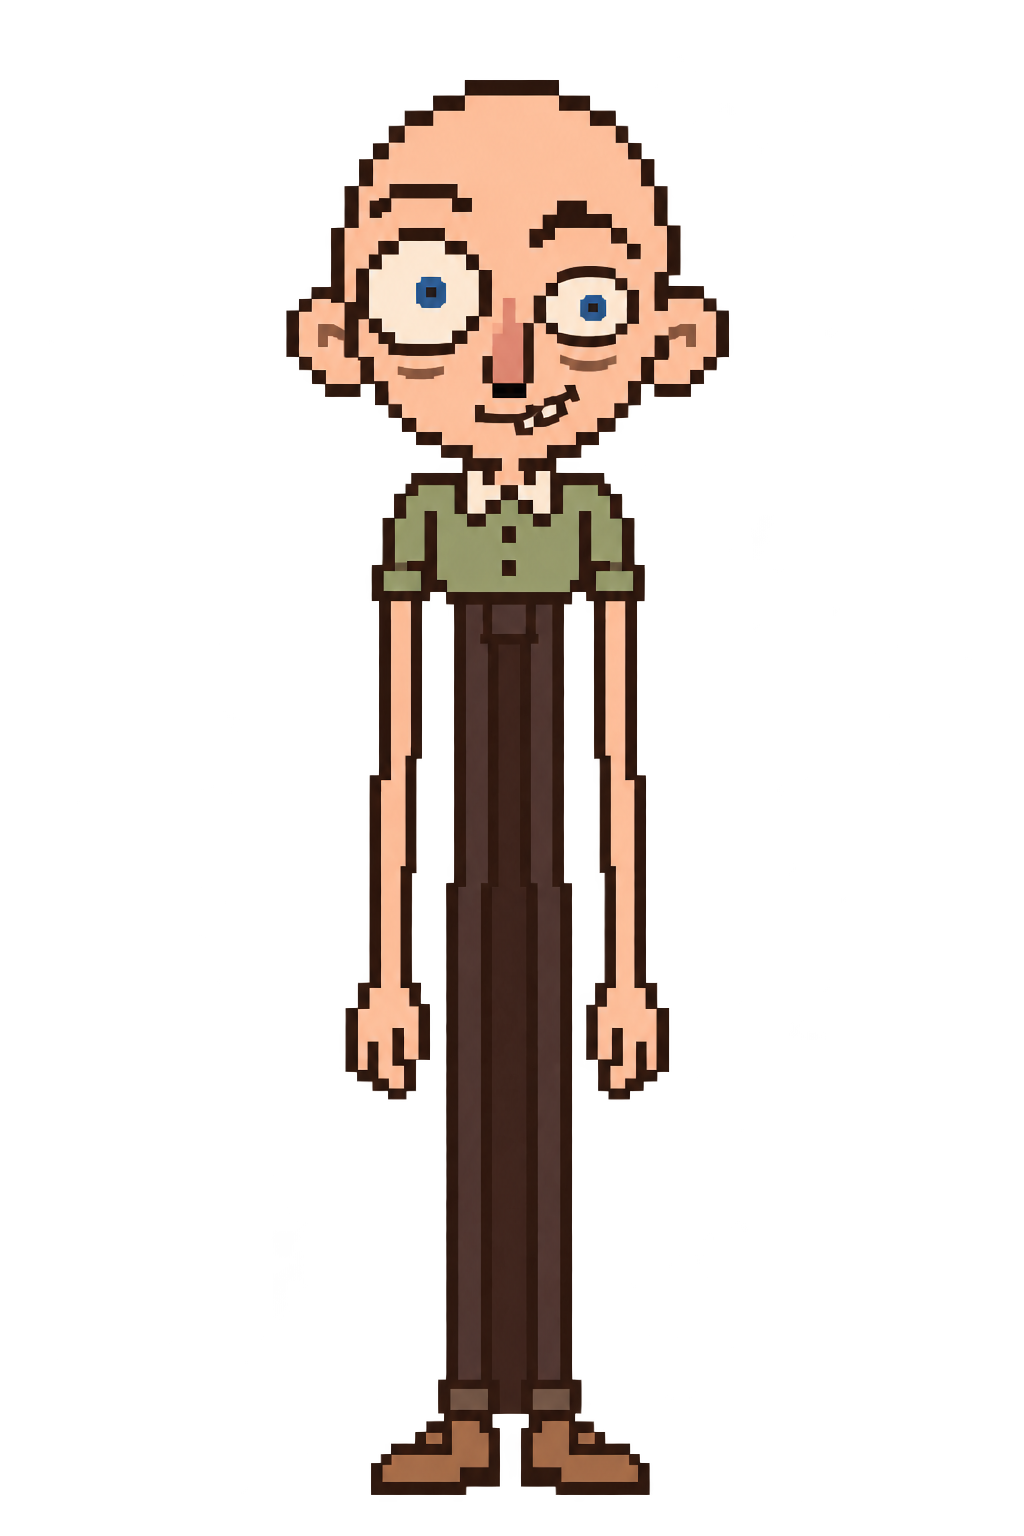
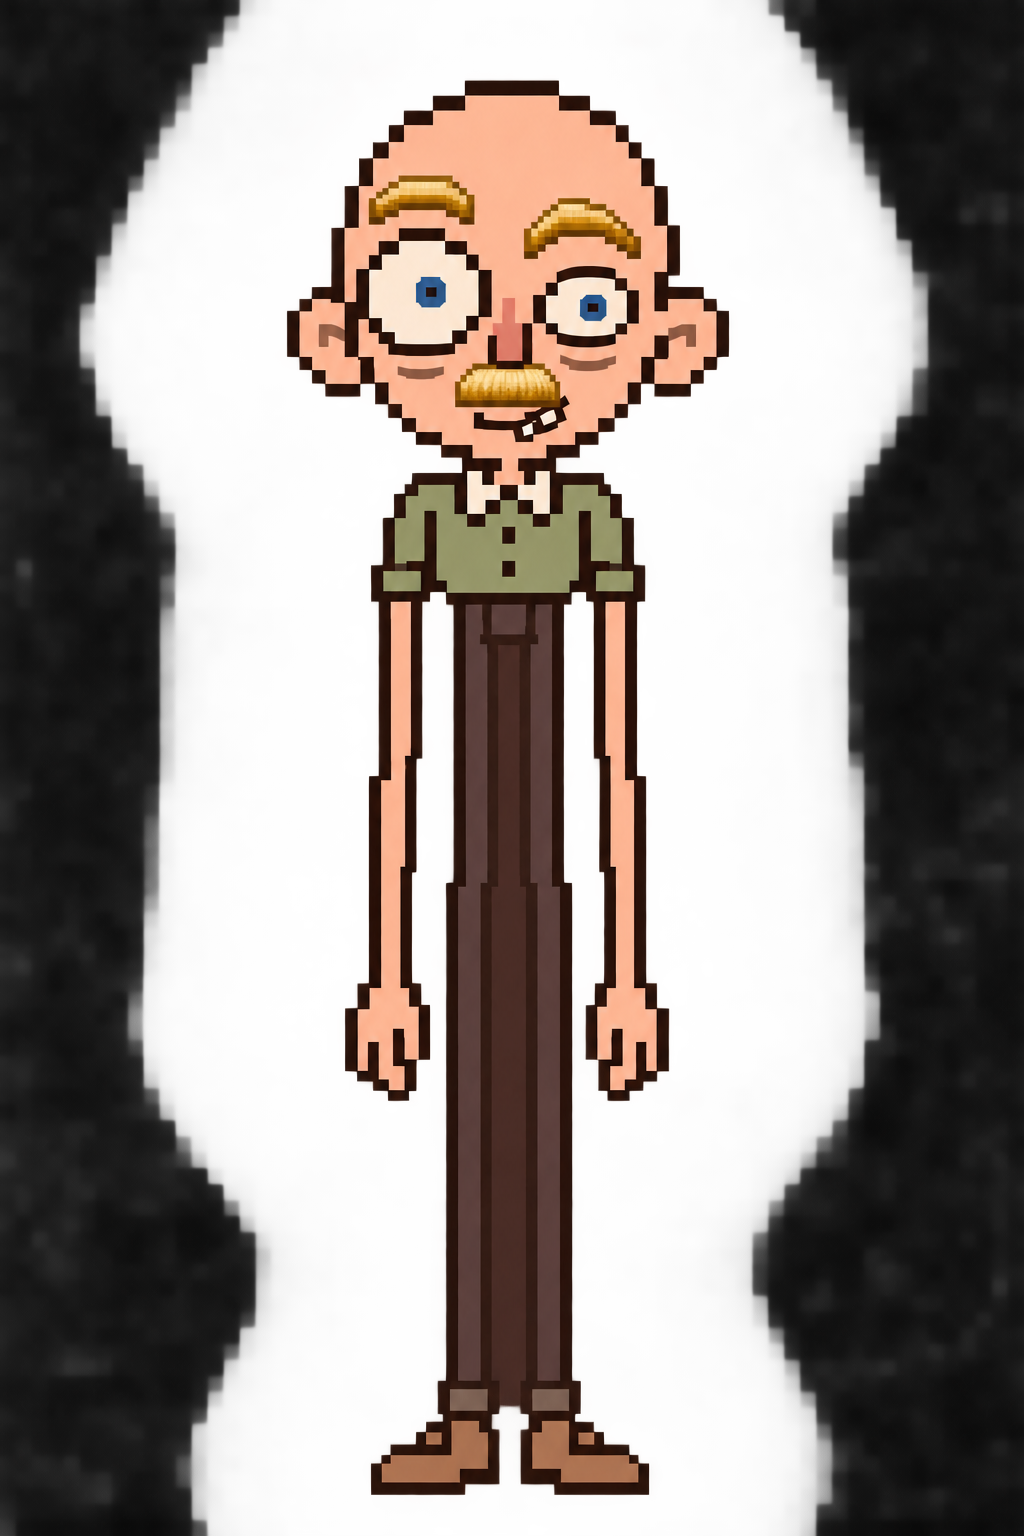
Use detailed author stickers and blond Archie moustache

diff --git a/src/App.jsx b/src/App.jsx
@@ -1,5 +1,4 @@
 import PixelMap from './PixelMap';
-import MemberName from './MemberName';
 import BeanScrollbar from './BeanScrollbar.jsx';
 import BeanRating,{coffeeVerdict} from './BeanRating.jsx';
 import Character from './Character.jsx';
@@ -21,9 +20,9 @@ export default function App({Cup,PourCard}){
 
  const filtered=journal.cafes.filter(c=>(c.name+' '+c.address).toLowerCase().includes(filter.toLowerCase()));
  return <main className="single full-app" data-roast={roast}><BeanScrollbar/><article className="study study-3"><div className="paper-stains" aria-hidden="true"><img src="/assets/coffee/stain-ring.webp" alt=""/><img src="/assets/coffee/stain-drip.webp" alt=""/><img src="/assets/coffee/stain-ring.webp" alt=""/></div><header><span className="wordmark">sippin’<br/><i>diesel.</i><span className="mark-dot">✦</span></span><span className="club">QUESTIONABLE TASTE.<br/>STRONG OPINIONS.</span></header>
- <div className="roast-picker"><button className="roast-trigger" aria-expanded={roastOpen} aria-controls="roast-panel" onClick={()=>setRoastOpen(!roastOpen)}><svg viewBox="0 0 24 24" width="21" height="21" fill="none" aria-hidden="true"><ellipse cx="12" cy="12" rx="7" ry="10" transform="rotate(35 12 12)" stroke="currentColor" strokeWidth="1.4"/><path d="M17 4c-8 3-1 12-10 16" stroke="currentColor" strokeWidth="1.4"/></svg><span>Roast level</span><small>{['Light','Medium','Dark','Midnight'][roast]}</small><span aria-hidden="true">{roastOpen?'−':'+'}</span></button>{roastOpen&&<div id="roast-panel" className="roast-panel" onKeyDown={e=>{if(e.key==='Escape'){setRoastOpen(false);e.currentTarget.parentElement.querySelector('button').focus();}}}><PourCard enabled><div className="roast-control"><span className="eyebrow">PALETTE TASTING / 0{roast+1}</span><label htmlFor="roast-level">Roast level <strong>{['Light · original','Medium','Dark','Midnight'][roast]}</strong></label><div className="roast-track" style={{'--roast-fill':`${roast/3*100}%`}}><input id="roast-level" type="range" min="0" max="3" step="1" value={roast} aria-valuetext={['Light, original palette','Medium roast','Dark roast','Midnight roast'][roast]} onChange={e=>setRoast(Number(e.target.value))}/></div><div className="roast-stops">{['Light','Medium','Dark','Midnight'].map((level,i)=><button key={level} aria-pressed={roast===i} onClick={()=>setRoast(i)}><i style={{background:['#dbb78b','#a76f43','#65402d','#30231c'][i]}}/>{level}</button>)}</div><p>A little darker. Same questionable taste.</p><button className="text-button" onClick={()=>setRoastOpen(false)}>That’s my roast ✓</button></div></PourCard></div>}</div>{user&&<nav><a href="#journal">The journal</a><a className="member" href="/"><MemberName name={user}/> · Switch person</a><button onClick={()=>setLeaveWarning(true)}>Leave the club</button></nav>}
- <section className={'hero '+(user?'member-hero':'')}><div className="eyebrow member-roster">{people.map(name=><MemberName key={name} name={name}/>)}</div><h1>“Meet you by<br/><em>the piss door”</em></h1><p>Three mates pretending they can taste the chocolate notes.</p><Cup rust/><span className="hero-caption">A PRIVATE COFFEE CLUB. VERY LOOSE STANDARDS.</span>{user&&<button className="primary" onClick={()=>setEditor({})}>＋ Log a coffee</button>}</section>
- {!ready?<p role="status">Putting the kettle on…</p>:!routeName?<section className="choose-person"><div className="section-title"><h2>Pick your usual suspect.</h2></div><p>Same password. Different questionable opinions.</p><div className="people-grid">{people.map((name,i)=><PourCard key={name} enabled organic restingTilt={tilts[i]}><a className="person-card" href={'/users/'+name.toLowerCase()}><Character name={name}/><h2>{name}</h2><span>{name==='Tiago'?'Strong coffee. Stronger opinions.':name==='Sam'?'A turtleneck does not count as expertise.':'All limbs. No tasting qualifications.'}</span><strong>That’s me ↗</strong></a></PourCard>)}</div></section>:!user?<form className="login-paper personal-login" onSubmit={login}><Character name={routeName}/><div className="eyebrow">MEMBERS ONLY, UNFORTUNATELY</div><h2>{routeName}, your usual?</h2><input type="hidden" name="name" value={routeName}/><label>Club password<input name="password" type="password" required autoComplete="current-password"/></label><button className="primary" disabled={busy}>{busy?'Opening the door…':'Let me in'}</button><a className="text-button" href="/">Not {routeName}? Pick your person.</a><p className="fine-print">One shared password. Three questionable palates.</p></form>:<section id="journal" className="app-journal"><div className="section-title"><h2>The latest pours</h2><span>{journal.reviews.length} ENTRIES / {journal.cafes.length} CAFÉS</span></div><div className="filters"><label>Find a café<input type="search" placeholder="Somewhere worth going back to…" value={filter} onChange={e=>setFilter(e.target.value)}/></label><label>Whose opinion?<select value={person} onChange={e=>setPerson(e.target.value)}>{['All',...people].map(p=><option key={p}>{p}</option>)}</select></label></div><div className="cafe-grid">{filtered.map((c,cafeIndex)=>{const reviews=journal.reviews.filter(r=>r.cafe_id===c.id&&(person==='All'||r.author===person));return <PourCard key={c.id} enabled><div className="cafe-heading"><div><span className="eyebrow">FIELD NOTES / {c.date_added_text||'THE NEXT FIND'}</span><h2>{c.name}</h2>{c.address&&<p>{c.address}</p>}</div></div><PixelMap cafe={c} roast={roast}/>{reviews.length?reviews.map(r=><article className="coffee-entry" key={r.id}><ReviewSticker id={r.id}/>{Boolean(r.has_photo)&&<a href={'/api/photos/'+r.id} target="_blank" rel="noreferrer"><img className="review-photo" loading="lazy" src={'/api/photos/'+r.id+'?v='+encodeURIComponent(r.updated_at)} alt={`${r.coffee||'Coffee'} at ${c.name}, photographed by ${r.author}`}/></a>}<div className="entry-top"><h3>{r.coffee||'From the original coffee list'}</h3><BeanRating score={r.score}/></div><span className="grade-name">{coffeeVerdict(r.score)}</span><p className="tasting-note">{r.notes||'Lost for words. Apparently.'}</p><div className="entry-meta"><span><MemberName name={r.author}/> · {r.visited_on||`${r.date_text} · year not recorded`}{r.milk?' · '+r.milk:''}</span>{r.author===user&&<button onClick={()=>setEditor(r)}>Edit</button>}</div></article>):<p className="empty-note">{person==='All'?'On the list. Still awaiting a verdict.':`${person} hasn’t weighed in here yet.`}</p>}<button className="text-button" onClick={()=>setEditor({cafe_id:c.id})}>＋ Another cup here</button></PourCard>})}</div>{!filtered.length&&<p>No cafés match that search.</p>}</section>}
+ <div className="roast-picker"><button className="roast-trigger" aria-expanded={roastOpen} aria-controls="roast-panel" onClick={()=>setRoastOpen(!roastOpen)}><svg viewBox="0 0 24 24" width="21" height="21" fill="none" aria-hidden="true"><ellipse cx="12" cy="12" rx="7" ry="10" transform="rotate(35 12 12)" stroke="currentColor" strokeWidth="1.4"/><path d="M17 4c-8 3-1 12-10 16" stroke="currentColor" strokeWidth="1.4"/></svg><span>Roast level</span><small>{['Light','Medium','Dark','Midnight'][roast]}</small><span aria-hidden="true">{roastOpen?'−':'+'}</span></button>{roastOpen&&<div id="roast-panel" className="roast-panel" onKeyDown={e=>{if(e.key==='Escape'){setRoastOpen(false);e.currentTarget.parentElement.querySelector('button').focus();}}}><PourCard enabled><div className="roast-control"><span className="eyebrow">PALETTE TASTING / 0{roast+1}</span><label htmlFor="roast-level">Roast level <strong>{['Light · original','Medium','Dark','Midnight'][roast]}</strong></label><div className="roast-track" style={{'--roast-fill':`${roast/3*100}%`}}><input id="roast-level" type="range" min="0" max="3" step="1" value={roast} aria-valuetext={['Light, original palette','Medium roast','Dark roast','Midnight roast'][roast]} onChange={e=>setRoast(Number(e.target.value))}/></div><div className="roast-stops">{['Light','Medium','Dark','Midnight'].map((level,i)=><button key={level} aria-pressed={roast===i} onClick={()=>setRoast(i)}><i style={{background:['#dbb78b','#a76f43','#65402d','#30231c'][i]}}/>{level}</button>)}</div><p>A little darker. Same questionable taste.</p><button className="text-button" onClick={()=>setRoastOpen(false)}>That’s my roast ✓</button></div></PourCard></div>}</div>{user&&<nav><a href="#journal">The journal</a><a className="member" href="/">{user} · Switch person</a><button onClick={()=>setLeaveWarning(true)}>Leave the club</button></nav>}
+ <section className={'hero '+(user?'member-hero':'')}><div className="eyebrow">TIAGO, SAM & ARCHIE</div><h1>“Meet you by<br/><em>the piss door”</em></h1><p>Three mates pretending they can taste the chocolate notes.</p><Cup rust/><span className="hero-caption">A PRIVATE COFFEE CLUB. VERY LOOSE STANDARDS.</span>{user&&<button className="primary" onClick={()=>setEditor({})}>＋ Log a coffee</button>}</section>
+ {!ready?<p role="status">Putting the kettle on…</p>:!routeName?<section className="choose-person"><div className="section-title"><h2>Pick your usual suspect.</h2></div><p>Same password. Different questionable opinions.</p><div className="people-grid">{people.map((name,i)=><PourCard key={name} enabled organic restingTilt={tilts[i]}><a className="person-card" href={'/users/'+name.toLowerCase()}><Character name={name}/><h2>{name}</h2><span>{name==='Tiago'?'Strong coffee. Stronger opinions.':name==='Sam'?'A turtleneck does not count as expertise.':'All limbs. No tasting qualifications.'}</span><strong>That’s me ↗</strong></a></PourCard>)}</div></section>:!user?<form className="login-paper personal-login" onSubmit={login}><Character name={routeName}/><div className="eyebrow">MEMBERS ONLY, UNFORTUNATELY</div><h2>{routeName}, your usual?</h2><input type="hidden" name="name" value={routeName}/><label>Club password<input name="password" type="password" required autoComplete="current-password"/></label><button className="primary" disabled={busy}>{busy?'Opening the door…':'Let me in'}</button><a className="text-button" href="/">Not {routeName}? Pick your person.</a><p className="fine-print">One shared password. Three questionable palates.</p></form>:<section id="journal" className="app-journal"><div className="section-title"><h2>The latest pours</h2><span>{journal.reviews.length} ENTRIES / {journal.cafes.length} CAFÉS</span></div><div className="filters"><label>Find a café<input type="search" placeholder="Somewhere worth going back to…" value={filter} onChange={e=>setFilter(e.target.value)}/></label><label>Whose opinion?<select value={person} onChange={e=>setPerson(e.target.value)}>{['All',...people].map(p=><option key={p}>{p}</option>)}</select></label></div><div className="cafe-grid">{filtered.map((c,cafeIndex)=>{const reviews=journal.reviews.filter(r=>r.cafe_id===c.id&&(person==='All'||r.author===person));return <PourCard key={c.id} enabled><div className="cafe-heading"><div><span className="eyebrow">FIELD NOTES / {c.date_added_text||'THE NEXT FIND'}</span><h2>{c.name}</h2>{c.address&&<p>{c.address}</p>}</div></div><PixelMap cafe={c} roast={roast}/>{reviews.length?reviews.map(r=><article className="coffee-entry" key={r.id}><ReviewSticker id={r.id}/>{Boolean(r.has_photo)&&<a href={'/api/photos/'+r.id} target="_blank" rel="noreferrer"><img className="review-photo" loading="lazy" src={'/api/photos/'+r.id+'?v='+encodeURIComponent(r.updated_at)} alt={`${r.coffee||'Coffee'} at ${c.name}, photographed by ${r.author}`}/></a>}<div className="entry-top"><h3>{r.coffee||'From the original coffee list'}</h3><BeanRating score={r.score}/></div><span className="grade-name">{coffeeVerdict(r.score)}</span><p className="tasting-note">{r.notes||'Lost for words. Apparently.'}</p><div className="entry-meta"><img className="author-head-sticker" src={'/assets/member-stickers/'+r.author.toLowerCase()+'.png'} alt="" aria-hidden="true" width="64" height="64" loading="lazy" style={{'--head-tilt':({Tiago:'-5deg',Sam:'4deg',Archie:'-2deg'})[r.author]}}/><span>{r.author} · {r.visited_on||`${r.date_text} · year not recorded`}{r.milk?' · '+r.milk:''}</span>{r.author===user&&<button onClick={()=>setEditor(r)}>Edit</button>}</div></article>):<p className="empty-note">{person==='All'?'On the list. Still awaiting a verdict.':`${person} hasn’t weighed in here yet.`}</p>}<button className="text-button" onClick={()=>setEditor({cafe_id:c.id})}>＋ Another cup here</button></PourCard>})}</div>{!filtered.length&&<p>No cafés match that search.</p>}</section>}
  {leaveWarning&&<div className="club-warning" role="alert"><strong>You wish.</strong><p>You’re in this coffee club for life. Sorry about that.</p><button className="text-button" onClick={()=>setLeaveWarning(false)}>Fine. Put the kettle on.</button></div>}{error&&<p role="alert" className="error">{error}</p>}{install&&<button className="install-button" onClick={async()=>{await install.prompt();setInstall(null);}}>Install the coffee club ↗</button>}<footer><span>From Piss to Coffee Excelence.</span><span>SD / THREE MATES, NO QUALIFICATIONS</span></footer></article>{editor&&<Editor review={editor} cafes={journal.cafes} close={()=>setEditor(null)} saved={async()=>{await refresh();setEditor(null);}}/>}</main>;
 }
 function Editor({review,cafes,close,saved}){

diff --git a/src/style.css b/src/style.css
@@ -117,3 +117,8 @@ html:has(.full-app){overflow-x:hidden;overscroll-behavior-x:none}
 
 .member-name{display:inline-flex;align-items:center;gap:6px;white-space:nowrap;vertical-align:middle}.member-name img{width:16px;height:16px;flex:none;image-rendering:pixelated;object-fit:contain}.member-roster{display:flex;align-items:center;gap:14px;flex-wrap:wrap}.full-app nav .member{display:flex;align-items:center;gap:5px}@media(max-width:900px){.member-roster{justify-content:center;gap:10px}}
 .eyebrow>.member-name{display:inline-flex;width:auto;height:auto;background:none}
+
+/* Detailed author portraits sit on the note corner, away from the text and edit action. */
+.coffee-entry .entry-meta{position:relative;min-height:74px;padding-right:76px;align-items:center;flex-wrap:wrap;gap:4px 10px}
+.author-head-sticker{position:absolute;right:-4px;bottom:0;width:64px;height:64px;object-fit:contain;pointer-events:none;image-rendering:pixelated;transform:rotate(var(--head-tilt,0deg));filter:drop-shadow(2px 3px 1px #29170c38)}
+@media(max-width:450px){.coffee-entry .entry-meta{padding-right:64px;min-height:62px}.author-head-sticker{width:56px;height:56px;right:-2px}}

diff --git a/src/Character.jsx b/src/Character.jsx
@@ -1,5 +1,5 @@
 import React from 'react';
 export default function Character({name}){
- const descriptions={Tiago:'Bald pixel-art Tiago with dark brown eyes and a terracotta shirt',Sam:'Thin bald pixel-art Sam with blond eyebrows, glasses and a turtleneck',Archie:'Bald blue-eyed pixel-art Archie with a small central moustache, a tiny square torso and very long limbs'};
+ const descriptions={Tiago:'Bald pixel-art Tiago with dark brown eyes and a terracotta shirt',Sam:'Thin bald pixel-art Sam with blond eyebrows, glasses and a turtleneck',Archie:'Bald blue-eyed pixel-art Archie with a thick blond toothbrush moustache, a tiny square torso and very long limbs'};
  return <div className="character-stage pixel-character"><img src={'/assets/characters/'+name.toLowerCase()+'.png'} alt={descriptions[name]} width="256" height="320"/></div>;
 }
